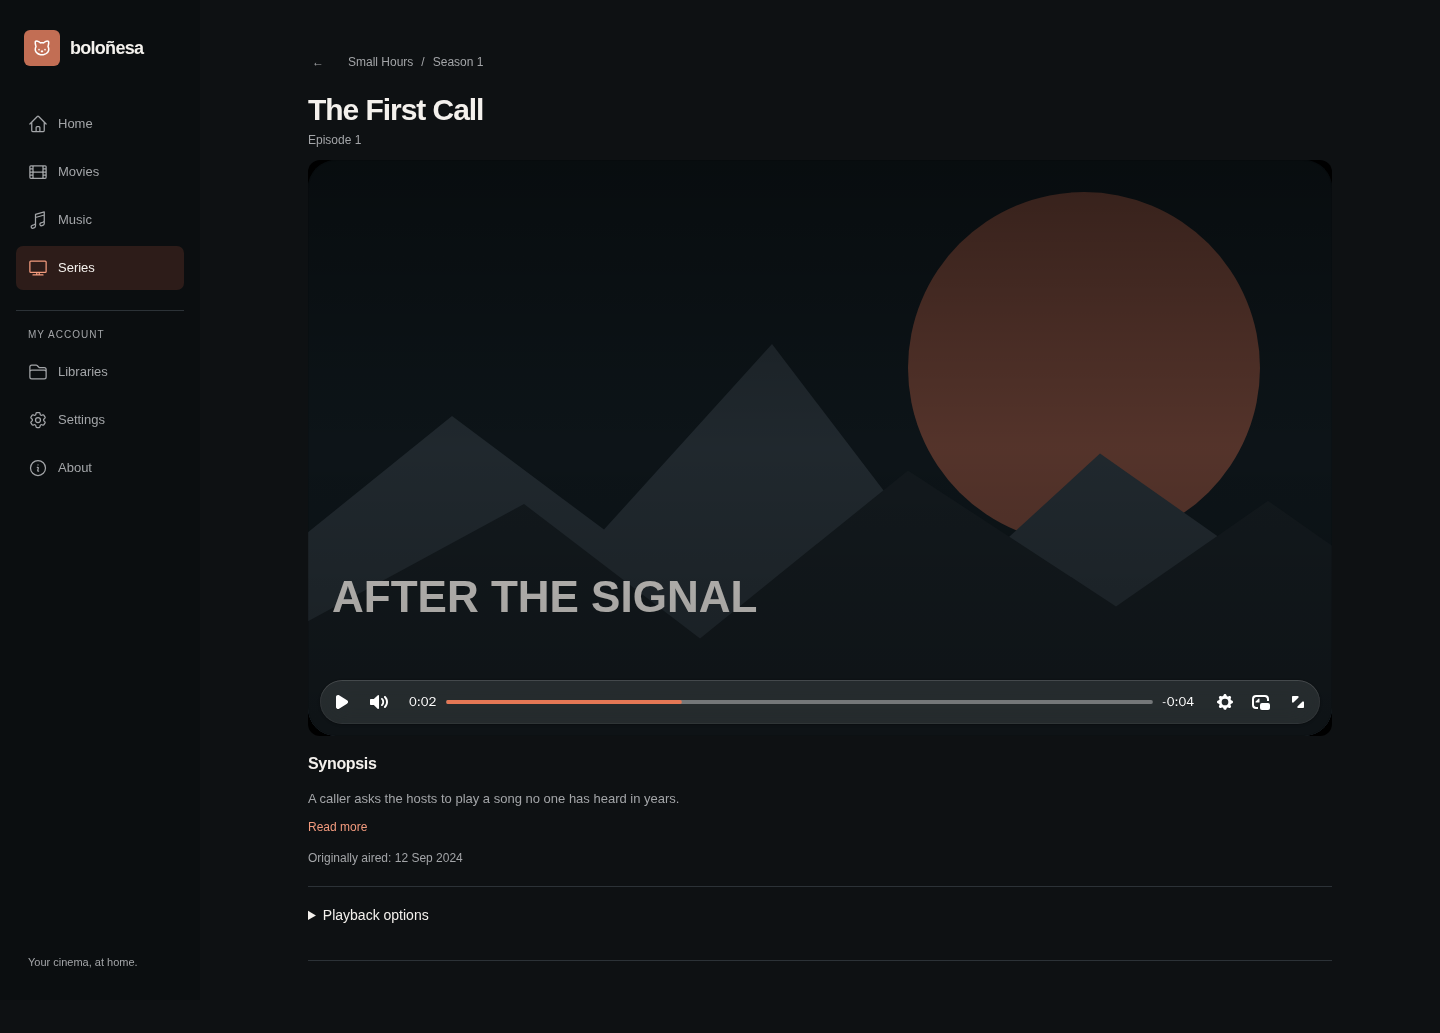
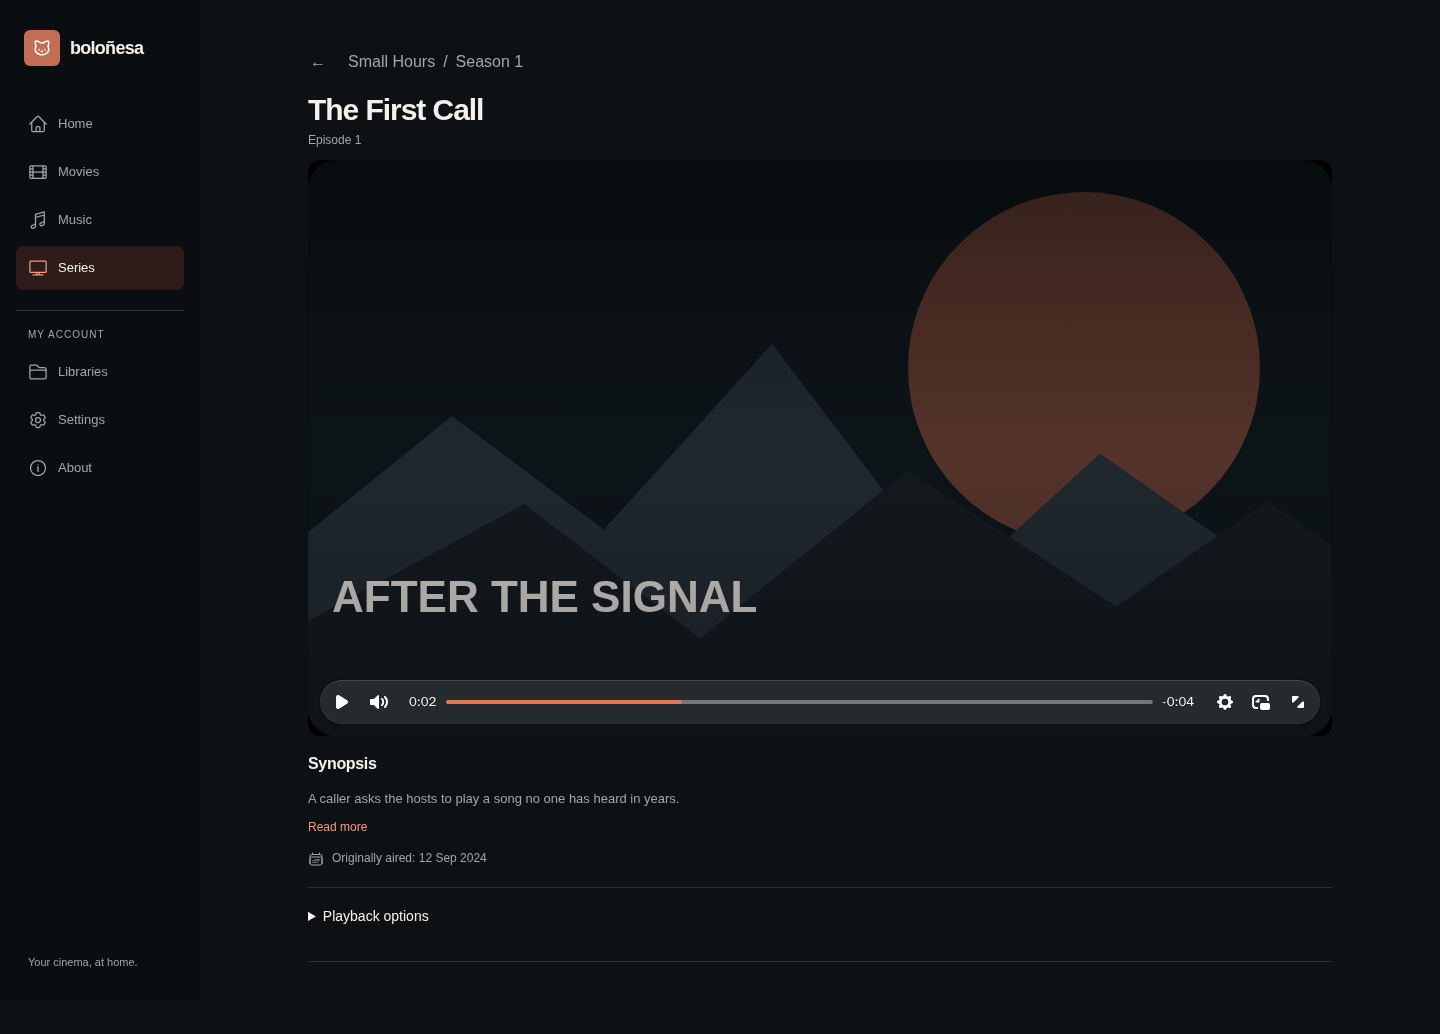
fix(episodes): improve detail page hierarchy

diff --git a/assets/css/series.css b/assets/css/series.css
@@ -75,7 +75,7 @@
   .series-breadcrumbs + * { margin-top: 0; }
 }
 
-.episode-breadcrumb { display: flex; align-items: center; gap: 8px; min-width: 0; margin-bottom: 8px; color: var(--color-muted); font-size: 12px; white-space: nowrap; }
+.episode-breadcrumb { display: flex; align-items: center; gap: 8px; min-width: 0; margin-bottom: 8px; color: var(--color-muted); font-size: 16px; white-space: nowrap; }
 .episode-breadcrumb a { display: inline-flex; align-items: center; min-height: 44px; }
 .episode-breadcrumb a.episode-breadcrumb-series { min-width: 0; display: block; overflow: hidden; text-overflow: ellipsis; line-height: 44px; }
 .episode-breadcrumb #episode-back { justify-content: center; width: 44px; flex-shrink: 0; margin-left: -12px; }

diff --git a/docs/status.md b/docs/status.md
@@ -42,8 +42,8 @@ Credo, and 627 tests with one skipped; the focused checks passed 43 tests.
 Coverage includes Playback export, context correlation/privacy and both recovery
 operations' partial failures, idle silence and unique notifications. Independent
 review found no material issues. The same precommit command passed again after
-integration into `main` with 627 tests and one skipped. No known blockers remain;
-the next step is publication. This refactor has not been published or deployed.
+integration into `main` with 627 tests and one skipped. Published and deployed as
+`e5a6fb389dec9232c59f07d69a8d342a553b7f34`; release verification is recorded below.
 
 Optional PromEx collection now exports framework metrics and existing application
 observations through a bearer-protected `/metrics` endpoint. Collection is disabled by
@@ -77,6 +77,18 @@ The account and access context is `Bolognesa.Accounts`, including its `Authentic
 Accounts resource lookups use `fetch_*` names with `{:ok, value}`, `:not_found`, or explicit error tuples. `Accounts.fetch_authenticated_admin/0` and `Release.fetch_authenticated_admin/0` replace `admin_actor/0`; the release console still binds `admin` to the actor or `nil` when setup is open. Authentication preserves its `:invalid_credentials` and `:unauthenticated` failure contracts.
 
 ## Recorded verification
+
+- Observability refactor release: local `mix precommit` passed compilation,
+  formatting, Credo, and 627 tests with one skipped; `make check-screenshots` passed.
+  Container image workflow run [39829089422](https://github.com/avillen/bolognesa/actions/runs/39829089422)
+  succeeded for `e5a6fb389dec9232c59f07d69a8d342a553b7f34`. `make deploy-release`
+  deployed verified image
+  `ghcr.io/avillen/bolognesa@sha256:166be707a6907891ddaed67271e6319ff0cf450c8e57a1f7cbba749fea0f6028`
+  on ARM64. Migrations were already current; the update created the database backup
+  `pre-migration-20261022-201442-19207.dump`, started the app, and passed HTTP health
+  verification. `make deploy-status` confirmed the app is running and PostgreSQL is
+  healthy. Detailed authenticated catalog, metrics, mount, and remote-write checks were
+  not repeated for this release.
 
 - Optional metrics release: [application CI](https://github.com/avillen/bolognesa/actions/runs/39774002378),
   [screenshot CI](https://github.com/avillen/bolognesa/actions/runs/39774002367), and
